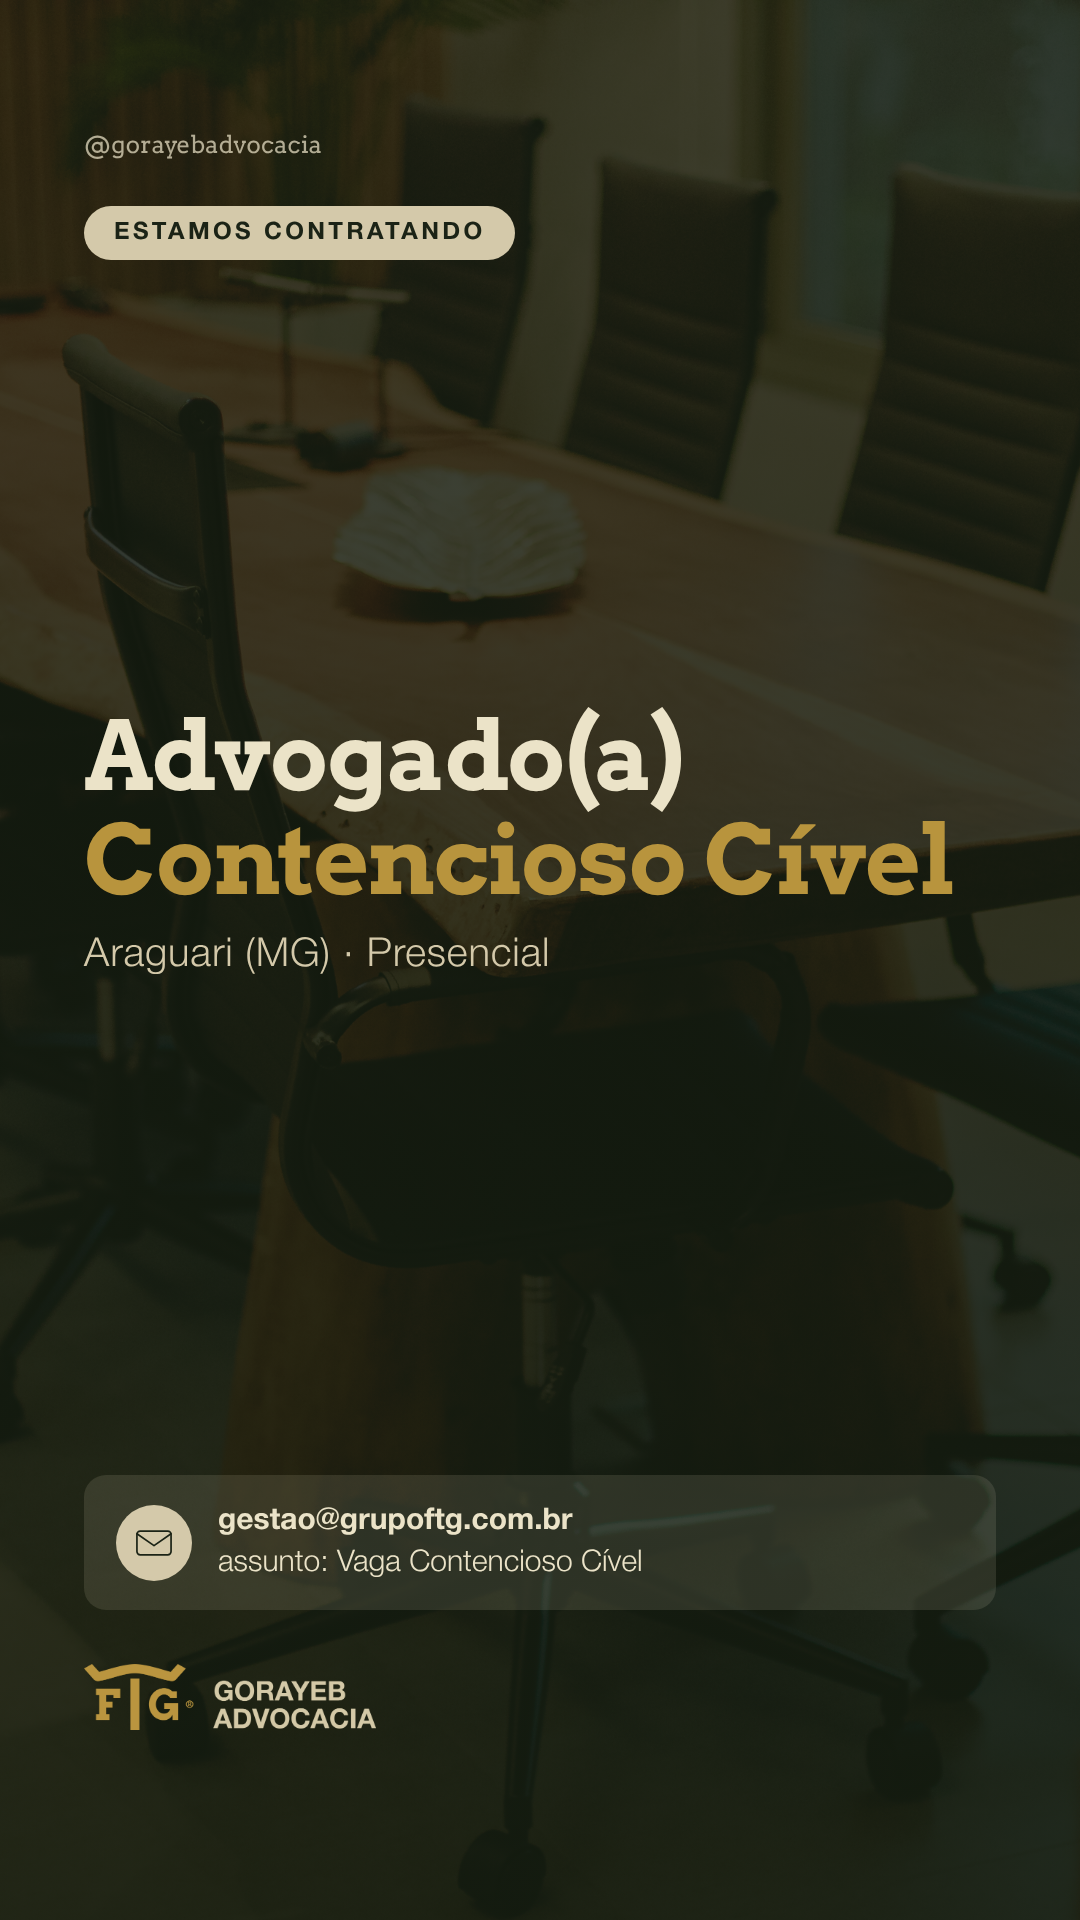
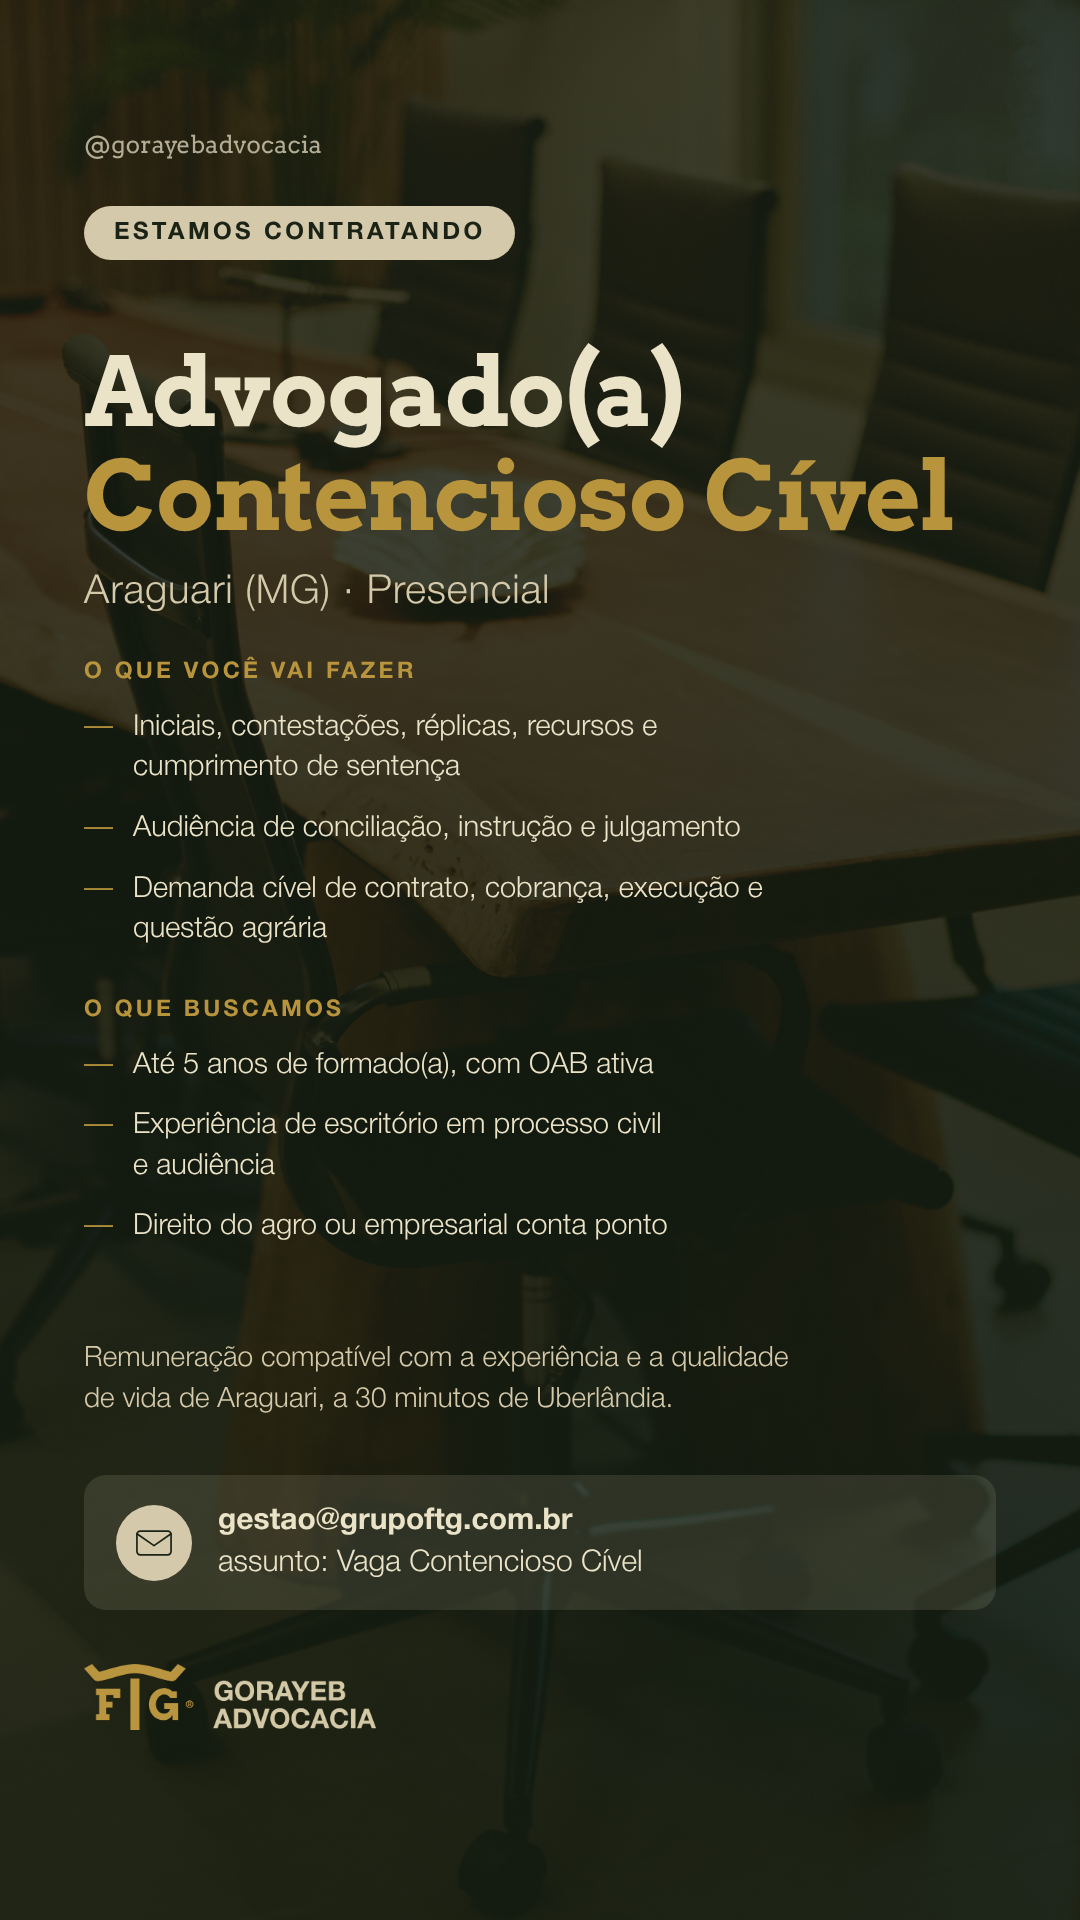
Stories da vaga com a informação toda
O feed continua enxuto, mas o stories tem 570px a mais de altura e estava
sobrando espaço. O tipo `vaga` ganhou dois campos:

- `blocos`: subtítulo dourado mais lista, pra separar o que a pessoa vai
  fazer do que ela precisa ter
- `remate`: a linha final antes do e-mail, com remuneração e o que a
  cidade oferece

Claude-Session: https://claude.ai/code/session_01PNm9HeejNLCDTQ5J6fF2k9

diff --git a/docs/gorayeb/template/base.css b/docs/gorayeb/template/base.css
@@ -723,3 +723,22 @@
    a peça ganha margem extra em cima e embaixo */
 .slide.stories { padding-top: 130px; padding-bottom: 190px; }
 .slide.vaga .caixa-dado { margin-top: 54px; }
+
+/* a vaga pode vir em blocos (o que faz / o que buscamos), que é o que cabe
+   no stories e não cabe no feed */
+.vaga-bloco-tit {
+  font-family: "HelveticaNeue", Helvetica, Arial, sans-serif;
+  font-weight: 700; font-size: 23px; letter-spacing: .14em;
+  text-transform: uppercase; color: var(--dourado);
+  margin-bottom: 24px; flex: none;
+}
+.slide.stories .vaga-req { gap: 20px; }
+.slide.stories .vaga-req li { font-size: 29px; line-height: 1.4; max-width: 25em; }
+.slide.stories .espaco { height: 48px; }
+
+/* última linha antes do e-mail: o que não é requisito nem atribuição */
+.vaga-remate {
+  font-family: "HelveticaNeue", Helvetica, Arial, sans-serif;
+  font-weight: 300; font-size: 28px; line-height: 1.46;
+  color: var(--areia); max-width: 26em; flex: none; margin-top: 10px;
+}

diff --git a/docs/gorayeb/diario.md b/docs/gorayeb/diario.md
@@ -67,8 +67,10 @@ Status: **entregue**, aguardando revisão. Falta conferir licença de 4 fotos.
 ### 7. Vaga: Advogado(a) — Contencioso Cível
 
 Duas artes, feed (1080×1350) e stories (1080×1920), a partir do texto que a Dra.
-Elisa mandou. Só o essencial na arte: cargo, cidade, três requisitos de uma linha
-e o e-mail com o assunto. Atribuição, diferencial e remuneração ficaram na legenda.
+Elisa mandou. O feed leva o essencial: cargo, cidade, três requisitos de uma linha
+e o e-mail com o assunto. O stories, que tem 570px a mais de altura, abre as
+atribuições e os requisitos em dois blocos e ainda leva a linha da remuneração e
+de Araguari a 30 minutos de Uberlândia.
 
 Foto é do banco da própria Gorayeb, a sala de reuniões vazia. É a exceção à regra
 de cenário nacional: em vaga, quem vai se candidatar quer ver onde trabalharia.
@@ -267,3 +269,5 @@ Tipos de slide, figuras e ícones estão na tabela do `README.md`.
   de um (`01-feed.png`, `02-stories.png`) e a medida certa no cabeçalho do txt.
 - A vaga entrou na agenda do dia 21/10 como extra, fora da cadência, pra Elisa ver
   no Excel que ela saiu.
+- Revisão do Victor: o stories podia levar bem mais informação. O tipo `vaga`
+  ganhou `blocos` (subtítulo dourado + lista) e `remate`. O feed continua enxuto.

diff --git a/docs/gorayeb/formato-01.md b/docs/gorayeb/formato-01.md
@@ -166,10 +166,12 @@ para regra com exceção, que é onde uma frase curta rende mais que dez slides.
 Anúncio de contratação sai em duas peças, **feed 1080×1350 e stories 1080×1920**,
 do mesmo JSON: o slide de stories só leva `formato: "stories"`.
 
-Na arte vai o mínimo que faz alguém se candidatar: **cargo, cidade, presencial ou
-não, dois ou três requisitos de uma linha, e o e-mail com o assunto do envio.**
-Atribuição, diferencial e remuneração ficam na legenda. No stories os requisitos
-saem.
+**O feed leva o mínimo que faz alguém se candidatar:** cargo, cidade, presencial
+ou não, dois ou três requisitos de uma linha, e o e-mail com o assunto do envio.
+
+**O stories leva muito mais**, porque tem 570px a mais de altura: as atribuições e
+os requisitos em `blocos`, cada um com subtítulo dourado, e o `remate` com
+remuneração e o que a cidade oferece. É a peça que alguém abre com tempo.
 
 Aqui a **foto é do escritório**, não cenário nacional. É a exceção: quem vai se
 candidatar quer ver onde trabalharia.
